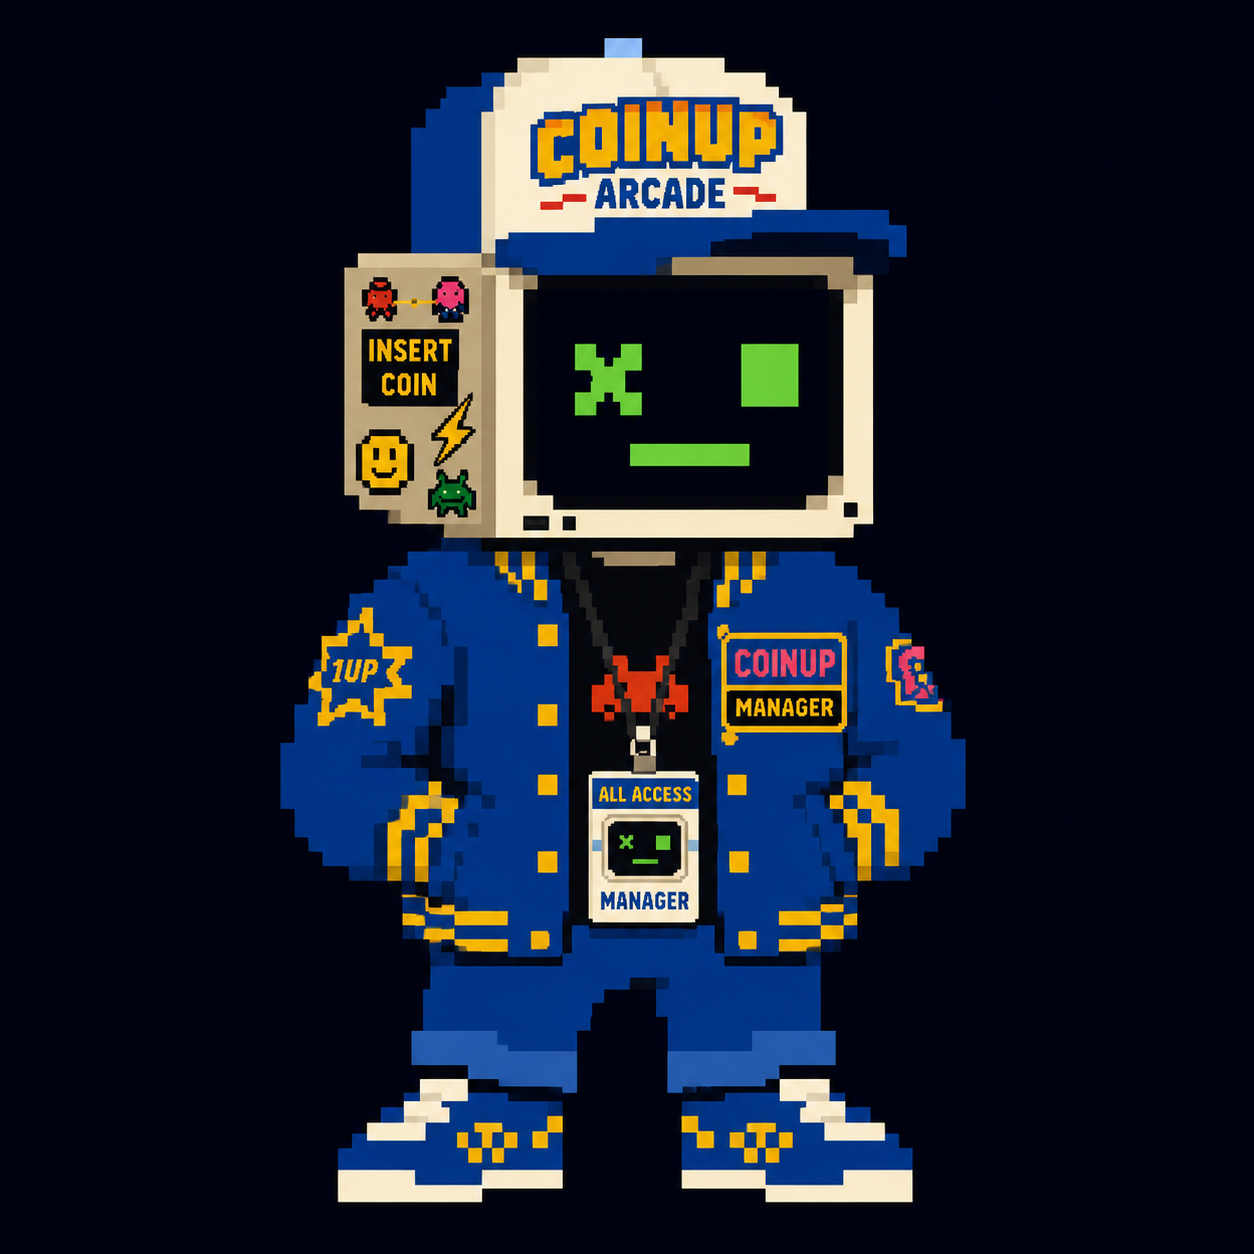
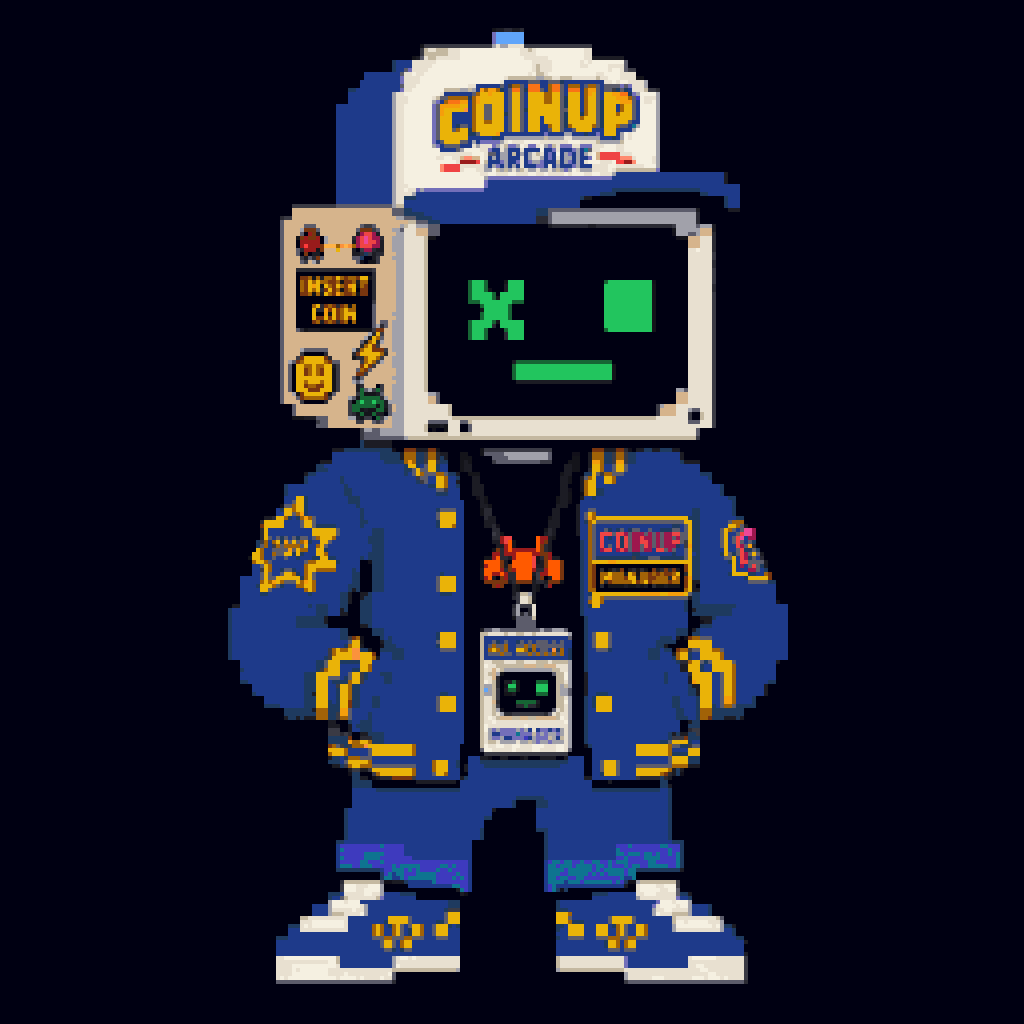
feat: true solid-hex pixel Chip (256 grid + masters)
Convert Chip from smooth faux-pixel source into Pixel System art:
every pixel is a full palette hex, no partial alpha. Ship 256 master,
nearest-neighbor display, and 128/64/32 UI sizes via to_pixel_art.py.

Changed region(s): [[0.2188, 0.0312, 0.7812, 0.9688]]

diff --git a/src/components/Chip.tsx b/src/components/Chip.tsx
@@ -26,20 +26,31 @@ type ChipProps = {
 };
 
 export function ChipPortrait({
-  size = 280,
+  size = 256,
   className = "",
   priority = false,
   showBadge = true,
 }: ChipProps) {
+  // Prefer native 256 grid so browser scales integer pixels (Pixel System)
+  const src =
+    size <= 32
+      ? BRAND.assets.chipGrid32
+      : size <= 64
+        ? BRAND.assets.chipGrid64
+        : size <= 128
+          ? BRAND.assets.chipGrid128
+          : BRAND.assets.chipGrid256;
+
   return (
     <div className={`relative inline-flex flex-col items-center ${className}`}>
       <div className="relative" style={{ width: size, height: size }}>
         <Image
-          src={withBase(CHIP.image)}
+          src={withBase(src)}
           alt={`${CHIP.fullTitle} — CoinUp mascot`}
           width={size}
           height={size}
           priority={priority}
+          unoptimized
           className="pixelated h-full w-full object-contain drop-shadow-[0_0_40px_rgba(37,99,235,0.4)]"
         />
       </div>

diff --git a/src/lib/brand.ts b/src/lib/brand.ts
@@ -79,7 +79,13 @@ export const BRAND = {
   assets: {
     brandBookV1: "/images/brand-book-v1.jpg",
     brandGuideConcept: "/images/brand-guide-concept.jpg",
+    /** Display (nearest-neighbor upscale of 256 grid) */
     chipHero: "/images/chip-arcade-manager.png",
+    /** True pixel masters — one solid palette hex per pixel */
+    chipGrid256: "/images/chip-arcade-manager-256.png",
+    chipGrid128: "/images/chip-arcade-manager-128.png",
+    chipGrid64: "/images/chip-arcade-manager-64.png",
+    chipGrid32: "/images/chip-arcade-manager-32.png",
   },
   socialStyle: "BOLD · FUN · PIXEL PERFECT · COMMUNITY DRIVEN",
   dos: [

diff --git a/src/components/Header.tsx b/src/components/Header.tsx
@@ -16,10 +16,11 @@ export function Header({
     <header className="flex flex-wrap items-center justify-between gap-4 border-b border-white/10 px-4 py-4 sm:px-8">
       <Link href="/" className="group flex items-center gap-2.5">
         <Image
-          src={withBase("/images/chip-arcade-manager.png")}
+          src={withBase("/images/chip-arcade-manager-32.png")}
           alt="Chip the Arcade Manager"
-          width={36}
-          height={36}
+          width={32}
+          height={32}
+          unoptimized
           className="pixelated rounded-md"
         />
         <span className="flex items-baseline gap-2">

diff --git a/src/app/brand/layout.tsx b/src/app/brand/layout.tsx
@@ -21,10 +21,11 @@ export default function BrandLayout({
         <div className="sticky top-0 max-h-screen overflow-y-auto py-4 pr-2">
           <Link href="/brand" className="mb-4 flex items-center gap-2 px-2">
             <Image
-              src={withBase(BRAND.assets.chipHero)}
+              src={withBase(BRAND.assets.chipGrid32)}
               alt="Chip"
               width={32}
               height={32}
+              unoptimized
               className="pixelated"
             />
             <div>

diff --git a/src/app/page.tsx b/src/app/page.tsx
@@ -40,7 +40,7 @@ export default function LobbyPage() {
               {BRAND.taglines.jacket}
             </ChipBubble>
           </div>
-          <ChipPortrait size={260} priority className="shrink-0" />
+          <ChipPortrait size={256} priority className="shrink-0" />
         </section>
 
         {/* Open cabinets */}

diff --git a/scripts/to_pixel_art.py b/scripts/to_pixel_art.py
@@ -1,0 +1,223 @@
+#!/usr/bin/env python3
+"""
+Convert an image to true CoinUp Pixel System art:
+  - integer grid (native_size × native_size)
+  - every pixel is exactly one palette hex (or hard transparent)
+  - nearest-neighbor upscale for display
+
+Usage:
+  python scripts/to_pixel_art.py [input] [output_dir]
+"""
+
+from __future__ import annotations
+
+import sys
+from pathlib import Path
+
+from PIL import Image
+
+# CoinUp 32 + Brand Book v1 primaries (must stay solid hex only)
+PALETTE_HEX = [
+    # Pixel System 32
+    "#07050C",
+    "#12101A",
+    "#2A2A35",
+    "#5C5C6B",
+    "#A1A1AA",
+    "#F4F0FF",
+    "#1E3A8A",
+    "#2563EB",
+    "#60A5FA",
+    "#166534",
+    "#22C55E",
+    "#86EFAC",
+    "#A16207",
+    "#EAB308",
+    "#FDE047",
+    "#F59E0B",
+    "#F97316",
+    "#FB923C",
+    "#9D174D",
+    "#EC4899",
+    "#F9A8D4",
+    "#5B21B6",
+    "#8B5CF6",
+    "#0E7490",
+    "#22D3EE",
+    "#991B1B",
+    "#EF4444",
+    "#78350F",
+    "#D6B48C",
+    "#1E3A5F",
+    "#38BDF8",
+    "#F472B6",
+    # Brand Book v1 locks
+    "#000012",
+    "#14141A",
+    "#1C1C24",
+    "#2A2A33",
+    "#3A3A44",
+    "#FCC76E",
+    "#FF5A00",
+    "#2962FF",
+    "#FF4EC7",
+    "#00DE76",
+    "#736FB9",
+    "#3E3ABE",
+    "#FFFFFF",
+    "#FFE680",
+    "#FFB347",
+    "#00D0FF",
+    "#FF3B3B",
+    "#FFD11A",
+    "#BAFF00",
+    "#FF8B6F",
+    # Cream bezel / hat front common in Chip art
+    "#F5F0E1",
+    "#E8E0D0",
+    "#C4B8A0",
+]
+
+
+def hex_to_rgb(h: str) -> tuple[int, int, int]:
+    h = h.lstrip("#")
+    return int(h[0:2], 16), int(h[2:4], 16), int(h[4:6], 16)
+
+
+PALETTE = [hex_to_rgb(h) for h in PALETTE_HEX]
+VOID = hex_to_rgb("#000012")
+
+
+def nearest(rgb: tuple[int, int, int]) -> tuple[int, int, int]:
+    r, g, b = rgb
+    best = PALETTE[0]
+    best_d = 1e18
+    for pr, pg, pb in PALETTE:
+        d = (r - pr) ** 2 + (g - pg) ** 2 + (b - pb) ** 2
+        if d < best_d:
+            best_d = d
+            best = (pr, pg, pb)
+    return best
+
+
+def luminance(rgb: tuple[int, int, int]) -> float:
+    r, g, b = rgb
+    return 0.2126 * r + 0.7152 * g + 0.0722 * b
+
+
+def to_pixel_art(
+    src: Path,
+    native_size: int = 128,
+    display_scale: int = 8,
+    hard_alpha: bool = False,
+    alpha_threshold: int = 40,
+) -> tuple[Image.Image, Image.Image]:
+    im = Image.open(src).convert("RGBA")
+
+    # BOX downsample = true pixel buckets (averages block → then we snap to palette)
+    small = im.resize((native_size, native_size), Image.Resampling.BOX)
+    px = small.load()
+    assert px is not None
+
+    out = Image.new("RGBA", (native_size, native_size), (0, 0, 0, 0))
+    op = out.load()
+    assert op is not None
+
+    for y in range(native_size):
+        for x in range(native_size):
+            r, g, b, a = px[x, y]
+            if a < alpha_threshold:
+                op[x, y] = (0, 0, 0, 0) if hard_alpha else (*VOID, 255)
+                continue
+            # dark near-void background → solid void (or transparent)
+            if luminance((r, g, b)) < 18 and a > 200:
+                if hard_alpha:
+                    op[x, y] = (0, 0, 0, 0)
+                else:
+                    op[x, y] = (*VOID, 255)
+                continue
+            nr, ng, nb = nearest((r, g, b))
+            op[x, y] = (nr, ng, nb, 255)
+
+    # Nearest-neighbor display upscale only
+    display = out.resize(
+        (native_size * display_scale, native_size * display_scale),
+        Image.Resampling.NEAREST,
+    )
+    return out, display
+
+
+def assert_palette_only(im: Image.Image) -> int:
+    """Return unique solid colors; raise if any off-palette RGB."""
+    allowed = set(PALETTE) | {VOID}
+    im = im.convert("RGBA")
+    colors = im.getcolors(maxcolors=im.size[0] * im.size[1])
+    assert colors is not None
+    bad = []
+    solids = set()
+    for _count, (r, g, b, a) in colors:
+        if a == 0:
+            continue
+        if a != 255:
+            bad.append((r, g, b, a))
+            continue
+        if (r, g, b) not in allowed:
+            # allow exact palette only
+            bad.append((r, g, b, a))
+        else:
+            solids.add((r, g, b))
+    if bad:
+        raise SystemExit(f"Off-palette or soft-alpha pixels: {bad[:20]}… ({len(bad)} total)")
+    return len(solids)
+
+
+def main() -> None:
+    root = Path(__file__).resolve().parents[1]
+    src = Path(sys.argv[1]) if len(sys.argv) > 1 else root / "public/images/chip-arcade-manager.png"
+    out_dir = Path(sys.argv[2]) if len(sys.argv) > 2 else root / "public/images"
+
+    # Preserve original once
+    backup = out_dir / "chip-arcade-manager-original.png"
+    if src.exists() and not backup.exists():
+        Image.open(src).save(backup)
+        print(f"backed up original → {backup.name}")
+
+    source = src if src.exists() else backup
+
+    # Hero master: 256×256 solid-hex grid
+    native, display = to_pixel_art(
+        source,
+        native_size=256,
+        display_scale=4,
+        hard_alpha=False,
+    )
+    n_colors = assert_palette_only(native)
+    print(f"native 256×256 unique solid colors: {n_colors}")
+
+    native.save(out_dir / "chip-arcade-manager-256.png")
+    display.save(out_dir / "chip-arcade-manager.png")
+
+    native_t, display_t = to_pixel_art(
+        source,
+        native_size=256,
+        display_scale=4,
+        hard_alpha=True,
+    )
+    assert_palette_only(native_t)
+    native_t.save(out_dir / "chip-arcade-manager-256-transparent.png")
+    display_t.save(out_dir / "chip-arcade-manager-transparent.png")
+
+    # Derived masters via nearest only (no re-blur)
+    for size in (128, 64, 32):
+        s = native.resize((size, size), Image.Resampling.NEAREST)
+        s.save(out_dir / f"chip-arcade-manager-{size}.png")
+        st = native_t.resize((size, size), Image.Resampling.NEAREST)
+        st.save(out_dir / f"chip-arcade-manager-{size}-transparent.png")
+
+    print("wrote chip-arcade-manager-256.png (grid master)")
+    print(f"wrote chip-arcade-manager.png (4× nearest display, {display.size[0]}px)")
+    print("wrote 128/64/32 masters + transparent variants")
+
+
+if __name__ == "__main__":
+    main()

diff --git a/docs/brand-book/08-chip-bible.md b/docs/brand-book/08-chip-bible.md
@@ -3,7 +3,13 @@
 Chip is the arcade manager. He runs the place, keeps things fun, and introduces new games.  
 **Part robot, part legend, 100% CoinUp.**
 
-**Hero art:** `public/images/chip-arcade-manager.png`  
+**Hero art (true pixel grid):**  
+- Master: `public/images/chip-arcade-manager-256.png` (256×256, solid palette hex only)  
+- Display upscale: `public/images/chip-arcade-manager.png` (nearest-neighbor ×4)  
+- UI sizes: `-128` / `-64` / `-32` (nearest derived)  
+- Original AI/smooth source (archive only): `chip-arcade-manager-original.png`  
+- Convert tool: `scripts/to_pixel_art.py`  
+
 **Board:** Brand Book v1 panels 03, 08, 16
 
 ---
